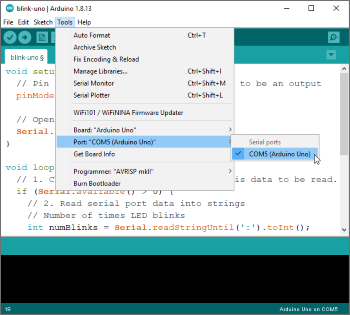
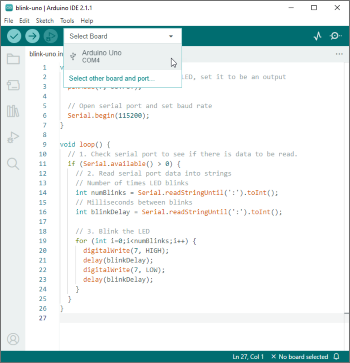
update arduino ide screenshots to latest ide version

diff --git a/pages/circuit.html b/pages/circuit.html
@@ -28,8 +28,7 @@
 
 <p>
   Connect the host computer to the Arduino with the USB A-B cable. In the
-  Arduino IDE, select the port used by the cable, as shown below for Windows and
-  Linux platforms.
+  Arduino IDE, select the port used by the cable, as shown below.
 </p>
 
 <figure>
@@ -49,24 +48,5 @@
       />
     </picture>
   </div>
-  <figcaption>Figure 2 - Selecting Port in Arduino IDE - Windows</figcaption>
-</figure>
-<figure>
-  <div class="scrollable-x">
-    <picture>
-      <source
-        media="(max-width: 540px)"
-        srcset="images/RaspberryPiArduinoIDEChoosePort-mobile-350w.png"
-      />
-      <source
-        media="(min-width: 541px)"
-        srcset="images/RaspberryPiArduinoIDEChoosePort.png"
-      />
-      <img
-        src="images/RaspberryPiArduinoIDEChoosePort.png"
-        alt="Photo of choosing port in Arduino IDE in Linux"
-      />
-    </picture>
-  </div>
-  <figcaption>Figure 3 - Selecting Port in Arduino IDE - Linux</figcaption>
+  <figcaption>Figure 2 - Selecting Port in Arduino IDE</figcaption>
 </figure>
